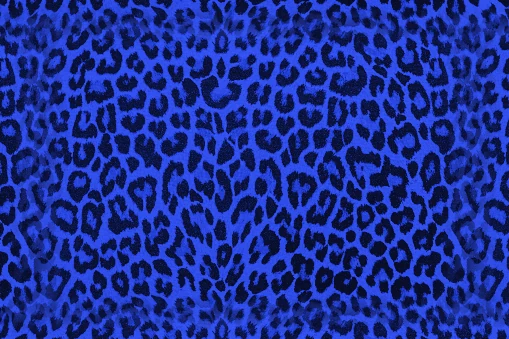
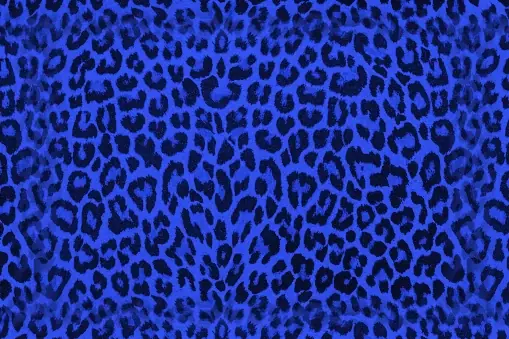
perf: add andrey-mobile.webp and optimize leopard-pattern.webp

diff --git a/index.html b/index.html
@@ -24,7 +24,8 @@
     <link rel="apple-touch-icon" sizes="180x180" href="/apple-touch-icon.png" />
     <link rel="alternate" type="text/markdown" title="LLMs Context" href="/llms.txt" />
     <meta name="theme-color" content="#06080F" />
-    <link rel="preload" as="image" href="/andrey.webp" type="image/webp" fetchpriority="high" />
+    <link rel="preload" as="image" href="/andrey-mobile.webp" type="image/webp" media="(max-width: 640px)" fetchpriority="high" />
+    <link rel="preload" as="image" href="/andrey.webp" type="image/webp" media="(min-width: 641px)" fetchpriority="high" />
 
     <!-- Open Graph / Facebook / Telegram -->
     <meta property="og:type" content="website" />

diff --git a/src/components/sections/AboutMe.tsx b/src/components/sections/AboutMe.tsx
@@ -43,6 +43,7 @@ export const AboutMe: React.FC = () => {
           <div data-reveal="card" className="lg:col-span-5 flex justify-center">
             <div className="w-full max-w-[380px] rounded-3xl overflow-hidden bg-zinc-900 border border-black/10 shadow-[0_20px_50px_rgba(0,0,0,0.1)] relative aspect-[4/5]">
               <picture>
+                <source media="(max-width: 640px)" srcSet="/andrey-mobile.webp" type="image/webp" />
                 <source srcSet="/andrey.webp" type="image/webp" />
                 <img
                   src="/andrey.jpg"

diff --git a/src/components/sections/Hero.tsx b/src/components/sections/Hero.tsx
@@ -229,6 +229,7 @@ export const Hero: React.FC = () => {
             <div className="w-full max-w-[340px] sm:max-w-[390px] relative z-10">
               <div className="relative rounded-3xl overflow-hidden bg-zinc-900 border border-black/10 shadow-[0_25px_60px_rgba(0,0,0,0.12)] aspect-[4/5]">
                 <picture>
+                  <source media="(max-width: 640px)" srcSet="/andrey-mobile.webp" type="image/webp" />
                   <source srcSet="/andrey.webp" type="image/webp" />
                   <img
                     src="/andrey.jpg"
